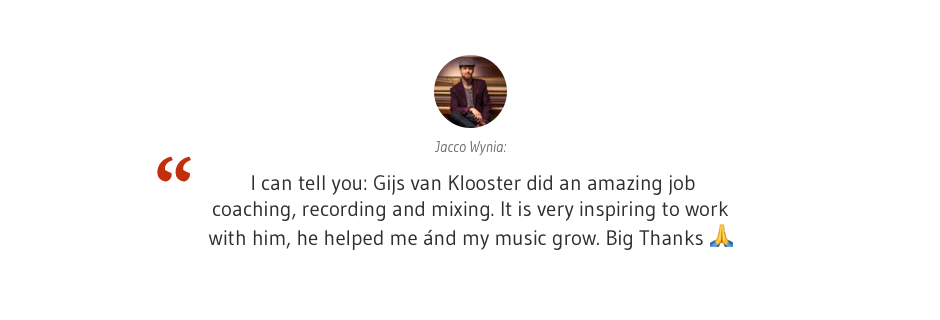
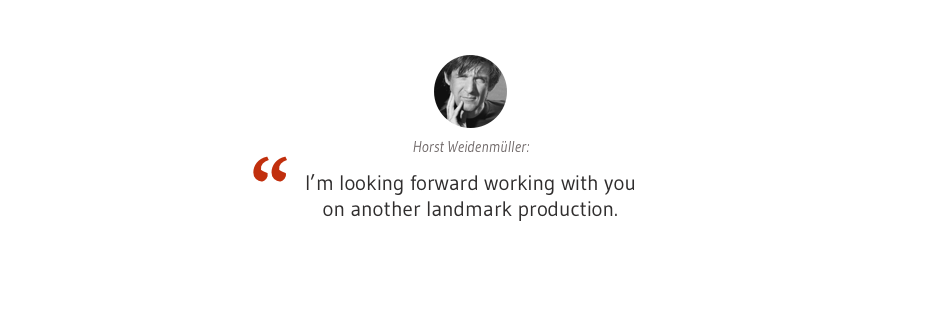
more disco images

diff --git a/discography.md b/discography.md
@@ -6,6 +6,7 @@ slides:
   - filename: "Afb019.jpg"
   - filename: "bfocpntrol.png"
   - filename: "dsc_0413.jpg"
+  - filename: "fobvanachter.png"
   - filename: "Gijs_p2_V1.jpg"
   - filename: "Gijs_V1.jpg"
   - filename: "GijsStudio3-1.jpg"
@@ -18,6 +19,7 @@ slides:
   - filename: "IMG_2135.jpg"
   - filename: "IMG_3600.jpg"
   - filename: "IMG_3740.jpg"
+  - filename: "IMG_4195.jpg"
   - filename: "IMG_4218.jpg"
   - filename: "IMG_4630.jpg"
   - filename: "IMG_4978.jpg"

diff --git a/index.md b/index.md
@@ -44,5 +44,6 @@ slides:
   - filename: "testimonial-5.png"
   - filename: "testimonial-6.png"
   - filename: "testimonial-7.png"
+  - filename: "testimonial-8.png"
 
 ---
